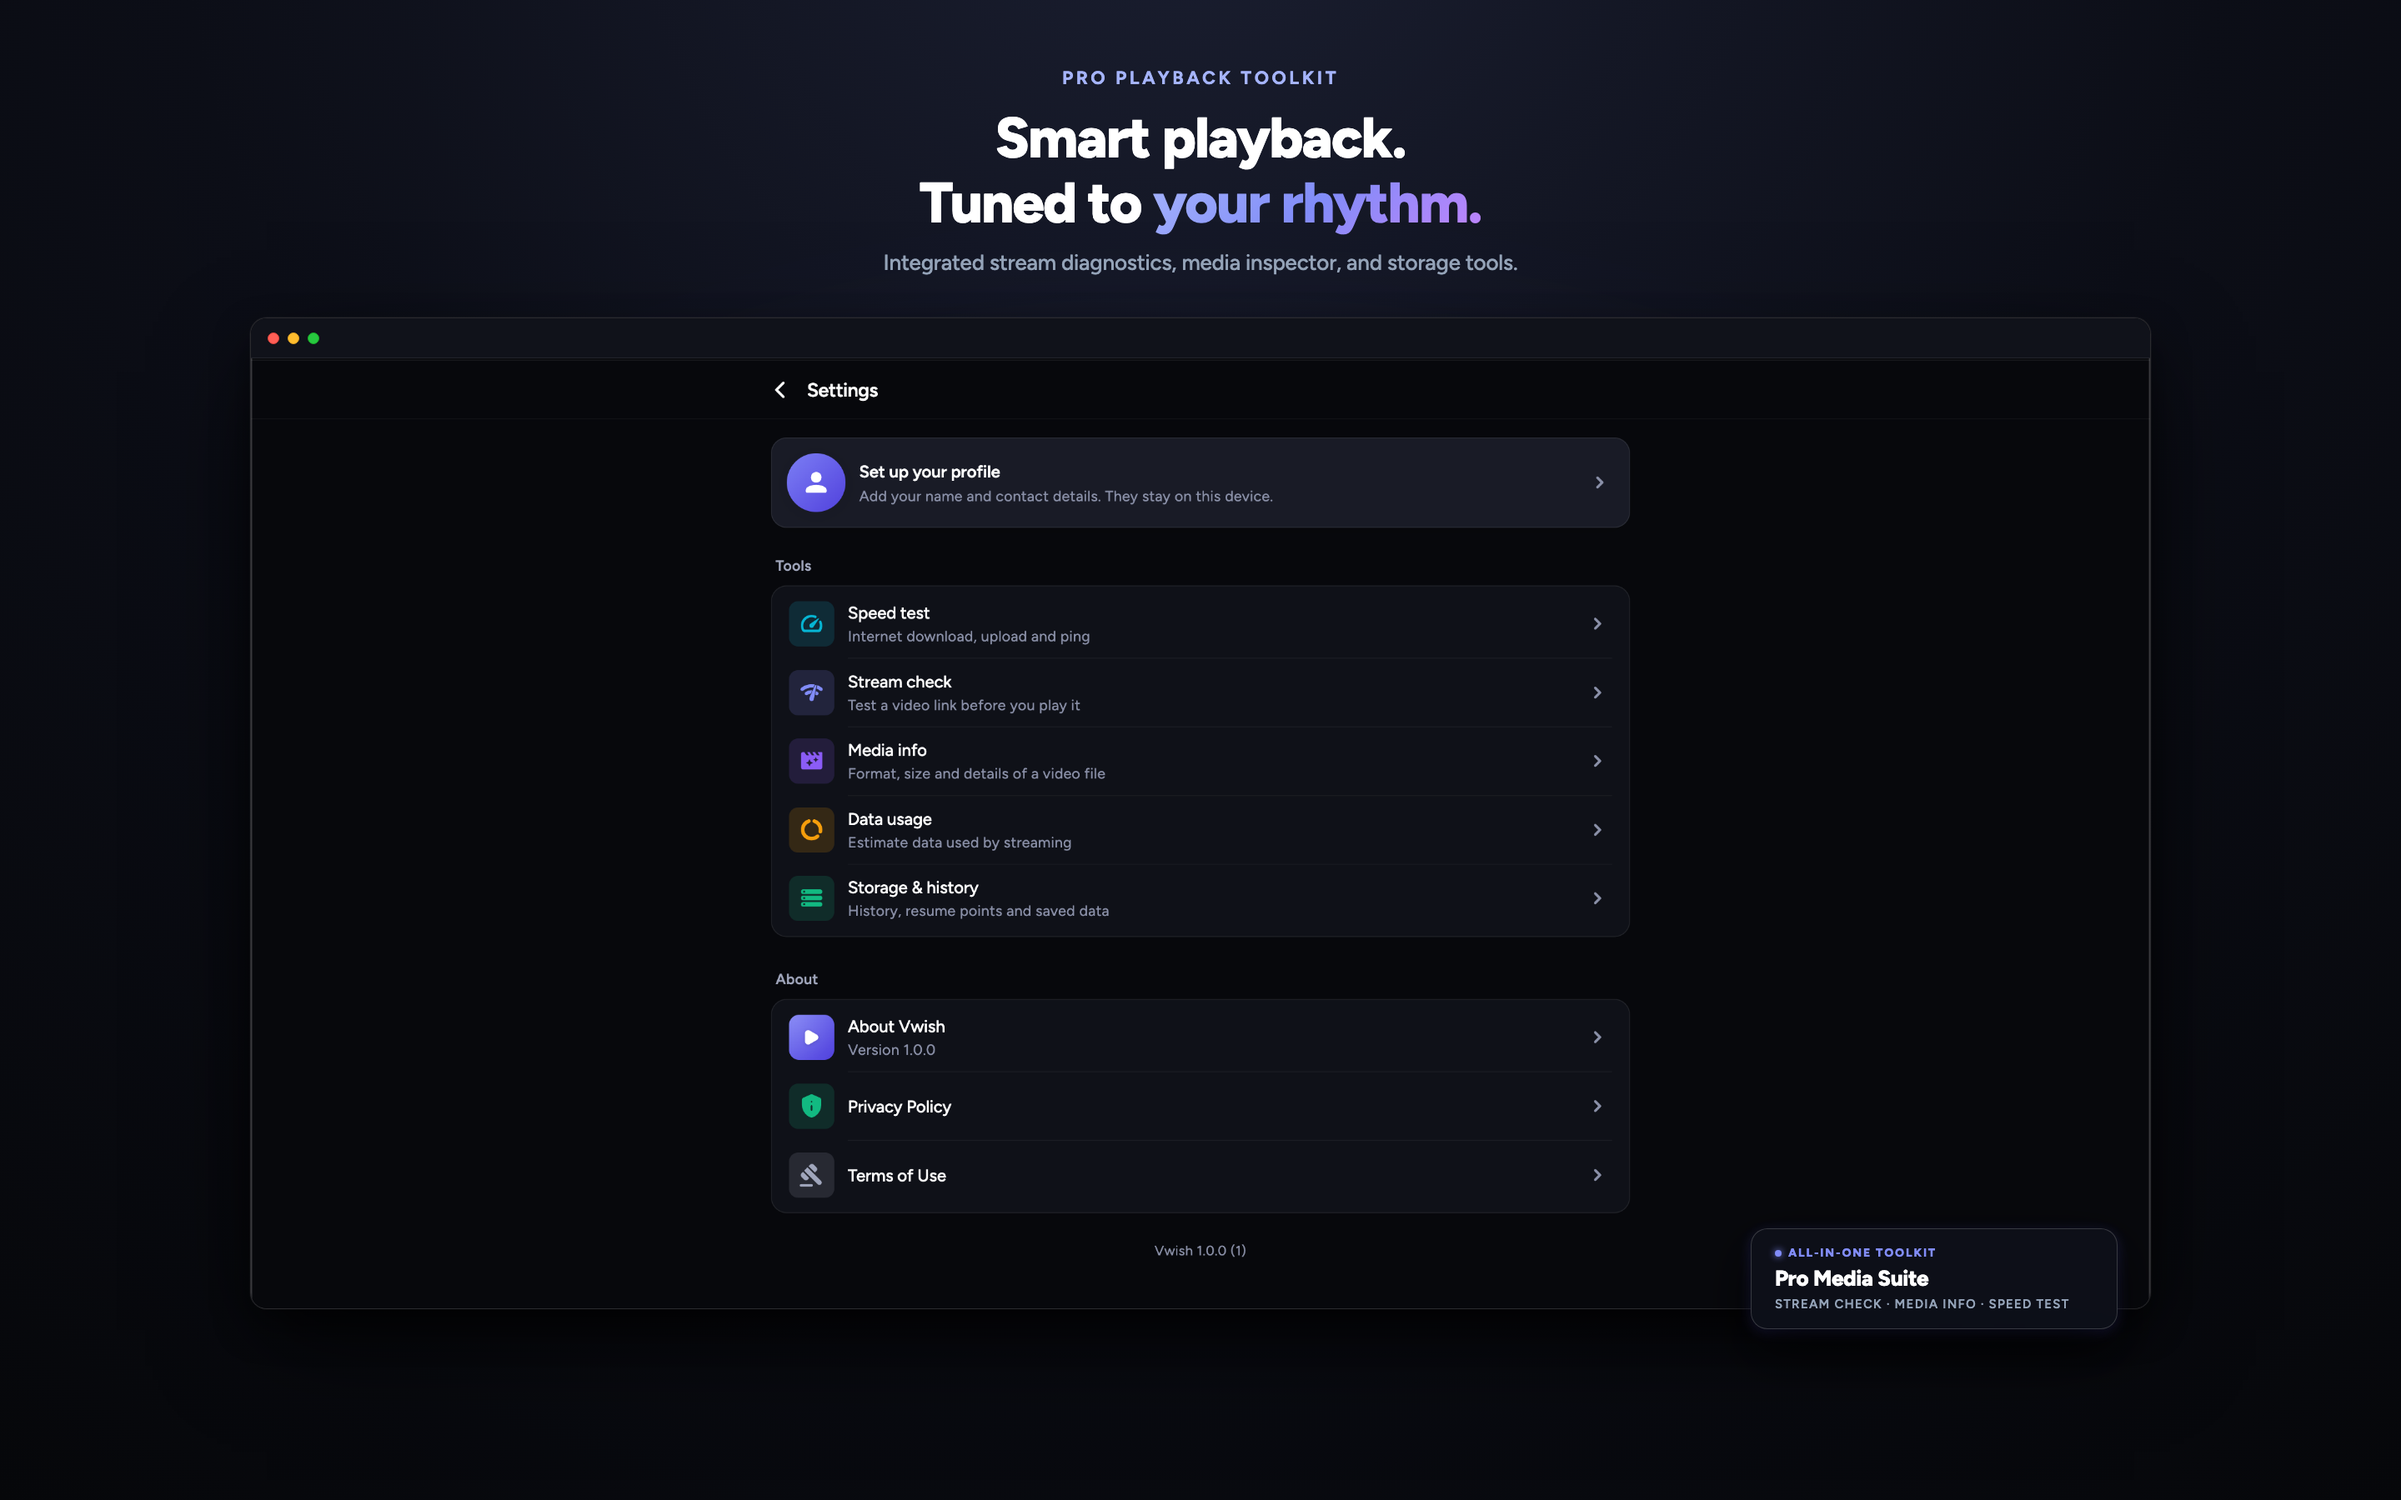
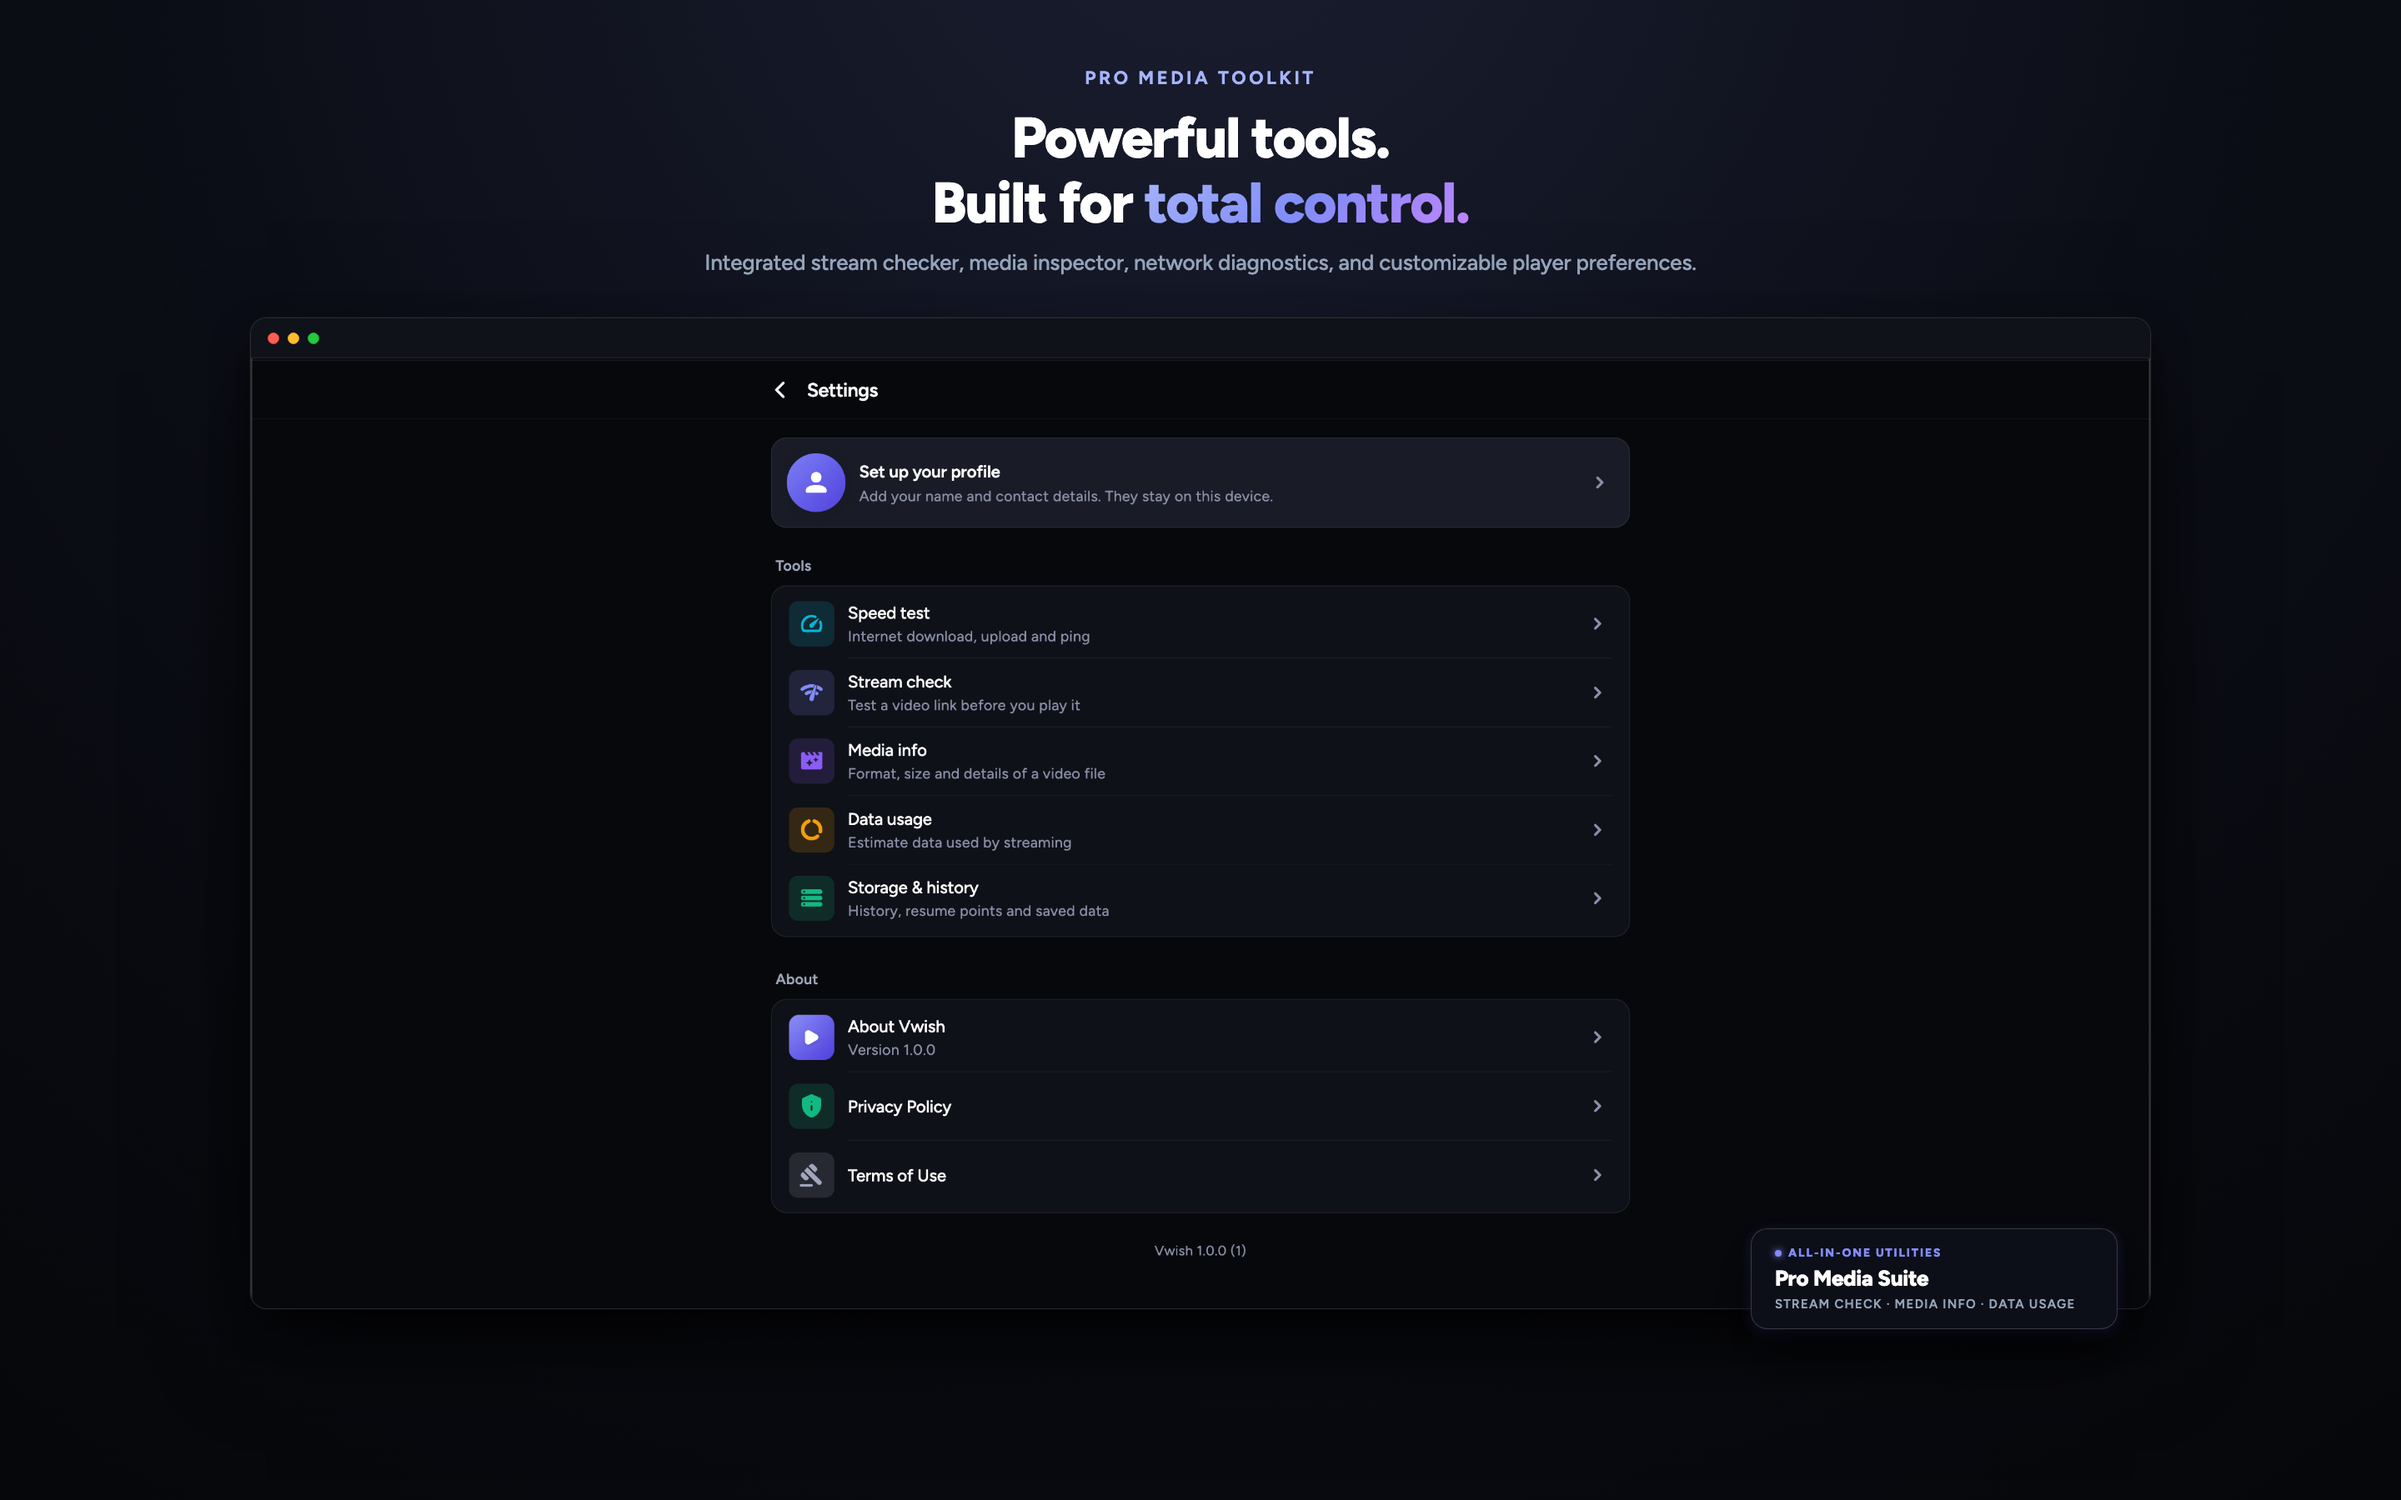
fix(screenshots): update settings slide headlines and regenerate mac & ipad screenshots

Changed region(s): [[0.2812, 0.0311, 0.6875, 0.1867], [0.7812, 0.8089, 0.8125, 0.84]]

diff --git a/scripts/generate_ipad_screenshots.py b/scripts/generate_ipad_screenshots.py
@@ -5,7 +5,7 @@ import subprocess
 import shutil
 from PIL import Image
 
-WORKSPACE = os.path.dirname(os.path.abspath(__file__))
+WORKSPACE = os.path.dirname(os.path.dirname(os.path.abspath(__file__)))
 PUB_DIR = os.path.join(WORKSPACE, "publishing")
 SRC_DIR = os.path.join(PUB_DIR, "source_assets")
 OUT_IPAD = os.path.join(PUB_DIR, "screenshots", "ipad_12_9")
@@ -39,17 +39,17 @@ slides = [
     },
     {
         "index": 2,
-        "id": "02_equalizer_bass",
-        "eyebrow": "PRO PLAYBACK CONTROLS",
-        "headline_line1": "Smart playback.",
-        "headline_line2": "Tuned to <span class=\"lit\">your rhythm.</span>",
-        "subline": "Custom seek gestures, stream inspection, and comprehensive media tools.",
+        "id": "02_tools_settings",
+        "eyebrow": "PRO MEDIA TOOLKIT",
+        "headline_line1": "Powerful tools.",
+        "headline_line2": "Built for <span class=\"lit\">total control.</span>",
+        "subline": "Integrated stream checker, media inspector, seek gestures, and comprehensive player preferences.",
         "screen_img": to_base64(os.path.join(SRC_DIR, "ipad_02_settings.png")),
         "chip_pos": "right",
         "chip_vertical": "bottom: 20%;",
-        "chip_status": "PLAYER TOOLKIT",
-        "chip_title": "Custom Seek Controls",
-        "chip_meta": "5S–30S SEEK · STREAM CHECK · MEDIA INFO"
+        "chip_status": "ALL-IN-ONE UTILITIES",
+        "chip_title": "Pro Media Tools",
+        "chip_meta": "STREAM CHECK · MEDIA INFO · SEEK GESTURES"
     },
     {
         "index": 3,

diff --git a/scripts/generate_mac_screenshots.py b/scripts/generate_mac_screenshots.py
@@ -48,15 +48,15 @@ slides = [
     {
         "index": 3,
         "id": "03_tools_settings",
-        "eyebrow": "PRO PLAYBACK TOOLKIT",
-        "headline_line1": "Smart playback.",
-        "headline_line2": "Tuned to <span class=\"lit\">your rhythm.</span>",
-        "subline": "Integrated stream diagnostics, media inspector, and storage tools.",
+        "eyebrow": "PRO MEDIA TOOLKIT",
+        "headline_line1": "Powerful tools.",
+        "headline_line2": "Built for <span class=\"lit\">total control.</span>",
+        "subline": "Integrated stream checker, media inspector, network diagnostics, and customizable player preferences.",
         "screen_img": to_base64(os.path.join(SRC_DIR, "mac_03_settings.png")),
         "chip_pos": "right",
-        "chip_status": "ALL-IN-ONE TOOLKIT",
+        "chip_status": "ALL-IN-ONE UTILITIES",
         "chip_title": "Pro Media Suite",
-        "chip_meta": "STREAM CHECK · MEDIA INFO · SPEED TEST"
+        "chip_meta": "STREAM CHECK · MEDIA INFO · DATA USAGE"
     },
     {
         "index": 4,
